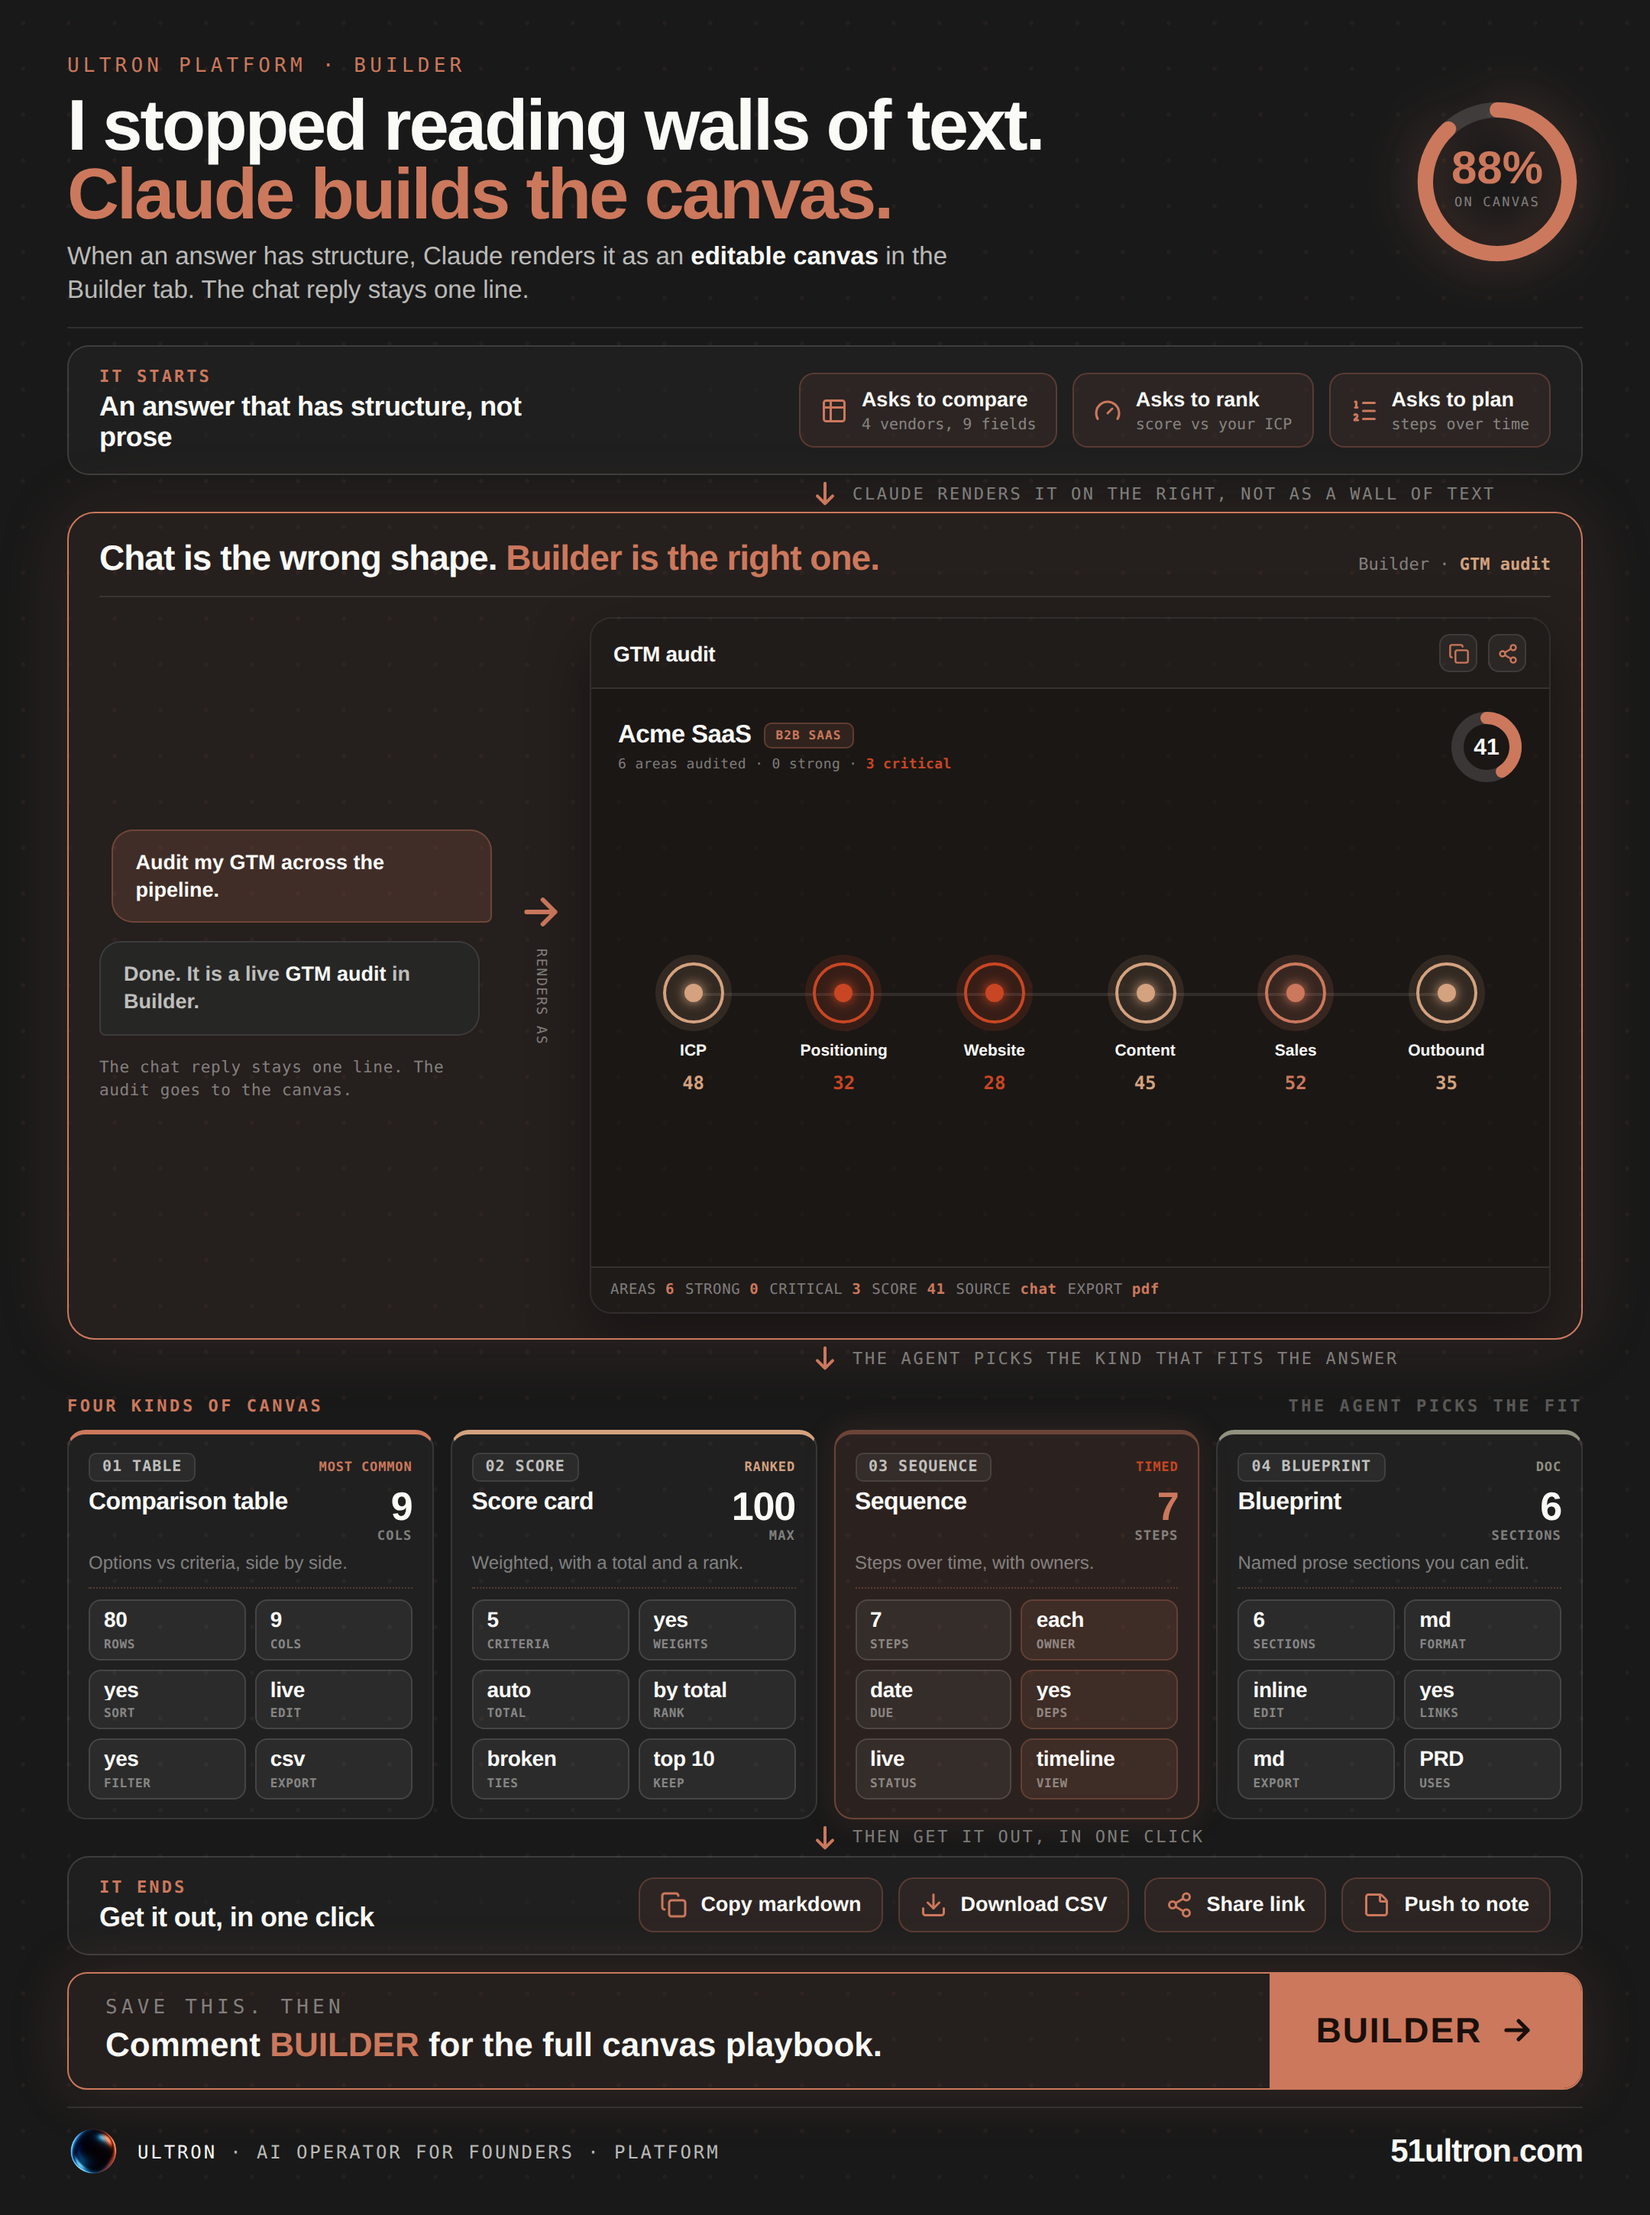
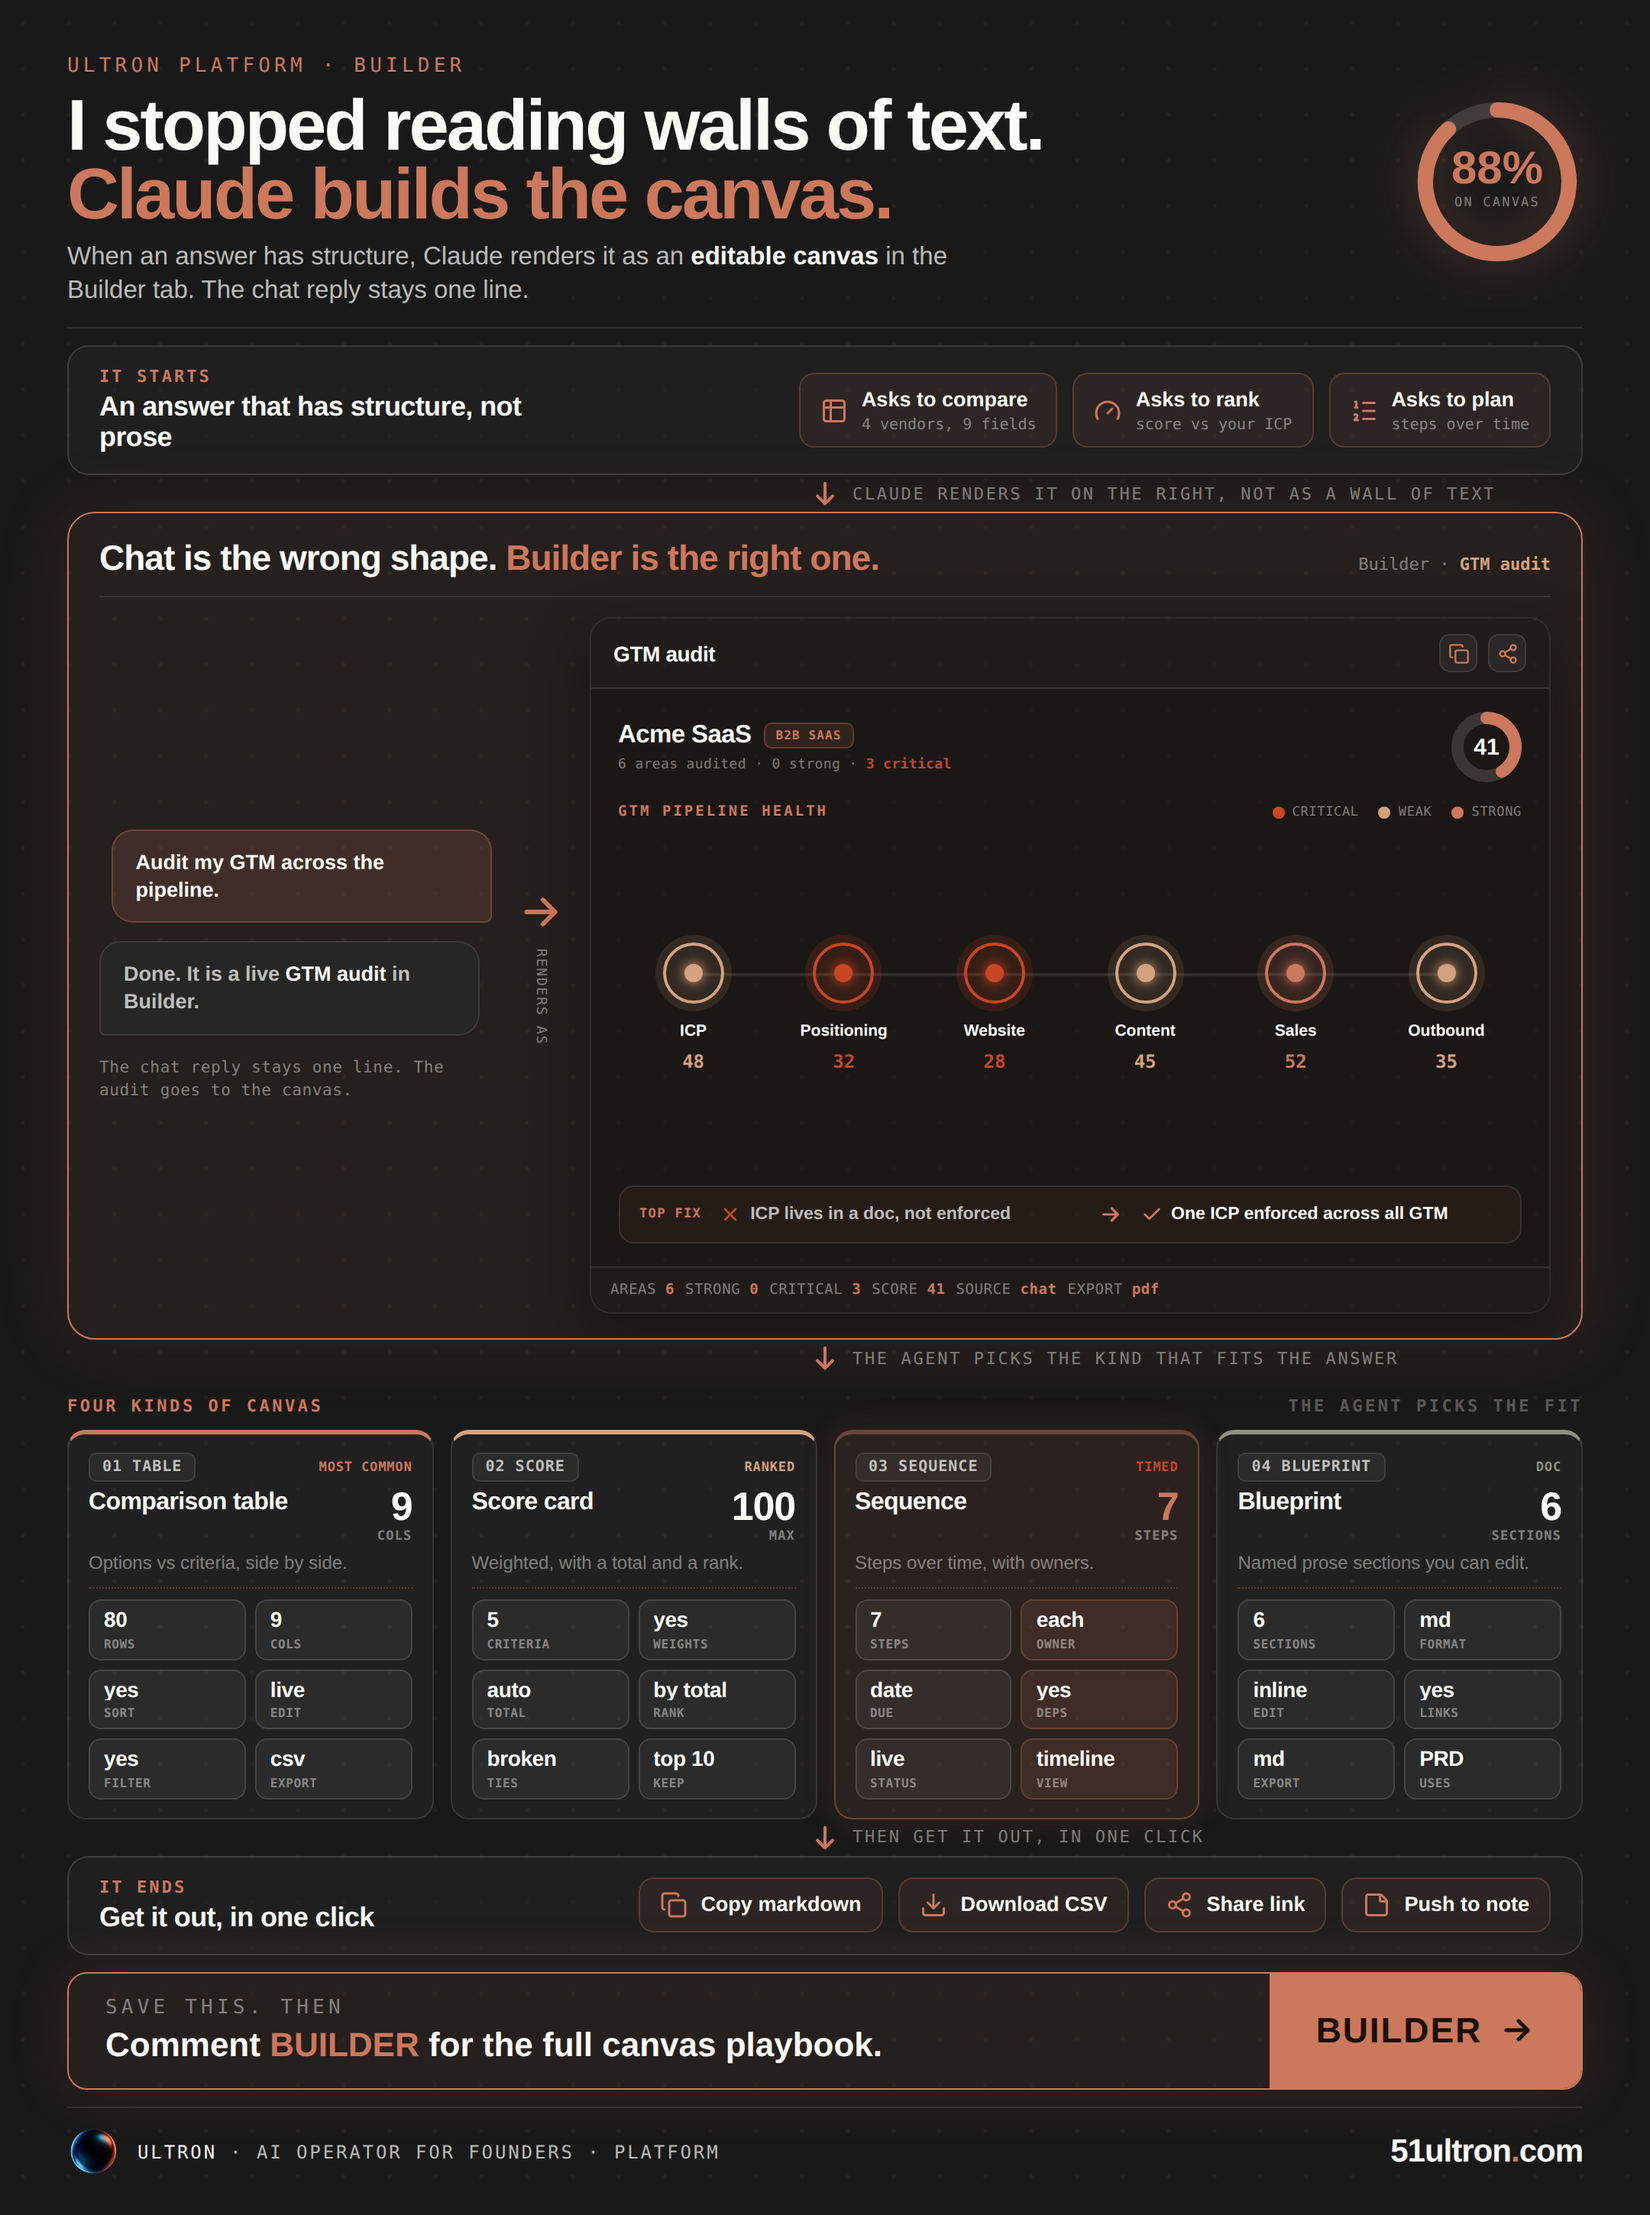
content: flesh out Builder GTM-audit canvas above and below the pipeline
Above the pipeline: a 'GTM pipeline health' eyebrow plus a color legend
(critical / weak / strong) that explains the node colour-coding. Below it:
a 'TOP FIX' row in current -> recommended form (X 'ICP lives in a doc, not
enforced' -> check 'One ICP enforced across all GTM'), modeled on the real
audit findings card. Fills the canvas vertical space, keeps Dark Ultron palette.
Both variants, 1080x1450 (scrollHeight verified), scrubbed.

https://claude.ai/code/session_018fS7xMwDiJUxoNS3zo3BKw

diff --git a/content/docs-07-builder-linkedin-journey.html b/content/docs-07-builder-linkedin-journey.html
@@ -68,6 +68,21 @@ body{background:#0d0d0d;display:flex;justify-content:center;padding:24px 0;font-
 .pnode .pdot{width:12px;height:12px;border-radius:50%;background:var(--sc);box-shadow:0 0 8px var(--sc);}
 .plabel{font-size:10.5px;font-weight:700;color:var(--ivory);text-align:center;line-height:1.08;}
 .pscore{font-family:'DM Mono',monospace;font-size:12px;font-weight:600;color:var(--sc);line-height:1;}
+.gabove{flex-shrink:0;display:flex;align-items:center;justify-content:space-between;gap:10px;}
+.gabove .glbl{font-family:'DM Mono',monospace;font-size:9.5px;font-weight:600;letter-spacing:.16em;text-transform:uppercase;color:var(--book);}
+.glegend{display:flex;gap:13px;}
+.glegend span{display:flex;align-items:center;gap:5px;font-family:'DM Mono',monospace;font-size:8.5px;font-weight:500;letter-spacing:.04em;text-transform:uppercase;color:var(--ink46);}
+.glegend i{width:8px;height:8px;border-radius:50%;}
+.gbelow{flex-shrink:0;display:flex;align-items:center;gap:12px;background:rgba(204,120,92,.06);border:1px solid var(--rule);border-radius:10px;padding:10px 13px;}
+.gbtag{font-family:'DM Mono',monospace;font-size:8.5px;font-weight:600;letter-spacing:.08em;text-transform:uppercase;color:var(--book);flex-shrink:0;}
+.gbv{flex:1;display:flex;align-items:center;gap:6px;font-size:11.5px;font-weight:700;line-height:1.16;min-width:0;}
+.gbv.cur{color:var(--ink70);}
+.gbv.rec{color:var(--ivory);}
+.gbv svg{width:14px;height:14px;flex-shrink:0;stroke-width:2.4;fill:none;stroke-linecap:round;stroke-linejoin:round;}
+.gbv.cur svg{stroke:var(--book-d);}
+.gbv.rec svg{stroke:var(--book);}
+.gbarrow{display:flex;align-items:center;flex-shrink:0;}
+.gbarrow svg{width:16px;height:16px;stroke:var(--book);stroke-width:2.4;fill:none;stroke-linecap:round;stroke-linejoin:round;}
 .cvstats{flex-shrink:0;display:flex;gap:7px;padding:9px 13px;border-top:1px solid var(--rule);background:rgba(255,255,255,.02);flex-wrap:wrap;}
 .cvstat{font-family:'DM Mono',monospace;font-size:9.5px;letter-spacing:.03em;color:var(--ink46);}.cvstat b{color:var(--book);font-weight:600;}
 /* KINDS strip */
@@ -133,6 +148,7 @@ body{background:#0d0d0d;display:flex;justify-content:center;padding:24px 0;font-
 <div class="cv-bar"><span class="cv-nm">GTM audit</span><div class="cv-act"><i><svg xmlns="http://www.w3.org/2000/svg" width="1em" height="1em" viewBox="0 0 24 24"><g fill="none" stroke="#CC785C" stroke-linecap="round" stroke-linejoin="round" stroke-width="2"><rect width="14" height="14" x="8" y="8" rx="2" ry="2"/><path d="M4 16c-1.1 0-2-.9-2-2V4c0-1.1.9-2 2-2h10c1.1 0 2 .9 2 2"/></g></svg></i><i><svg xmlns="http://www.w3.org/2000/svg" width="1em" height="1em" viewBox="0 0 24 24"><g fill="none" stroke="#CC785C" stroke-linecap="round" stroke-linejoin="round" stroke-width="2"><circle cx="18" cy="5" r="3"/><circle cx="6" cy="12" r="3"/><circle cx="18" cy="19" r="3"/><path d="m8.59 13.51l6.83 3.98m-.01-10.98l-6.82 3.98"/></g></svg></i></div></div>
 <div class="gaud">
 <div class="gaud-h"><div><div class="gaud-co">Acme SaaS <span class="gaud-tag">B2B SAAS</span></div><div class="gaud-sub">6 areas audited &middot; 0 strong &middot; <b>3 critical</b></div></div><div class="gaud-ring"><svg viewBox="0 0 46 46"><circle class="gt" cx="23" cy="23" r="19"/><circle class="ga" cx="23" cy="23" r="19" stroke-dasharray="49 119.4"/></svg><span class="gn">41</span></div></div>
+<div class="gabove"><span class="glbl">GTM pipeline health</span><div class="glegend"><span><i style="background:var(--book-d)"></i>Critical</span><span><i style="background:var(--kraft)"></i>Weak</span><span><i style="background:var(--book)"></i>Strong</span></div></div>
 <div class="pipe">
 <div class="pstage" style="--sc:var(--kraft);--scbg:rgba(212,162,127,.13)"><div class="ptop"><div class="pnode"><div class="pdot"></div></div></div><div class="plabel">ICP</div><div class="pscore">48</div></div>
 <div class="pstage" style="--sc:var(--book-d);--scbg:rgba(200,70,35,.16)"><div class="ptop"><div class="pnode"><div class="pdot"></div></div></div><div class="plabel">Positioning</div><div class="pscore">32</div></div>
@@ -141,6 +157,7 @@ body{background:#0d0d0d;display:flex;justify-content:center;padding:24px 0;font-
 <div class="pstage" style="--sc:var(--book);--scbg:rgba(204,120,92,.16)"><div class="ptop"><div class="pnode"><div class="pdot"></div></div></div><div class="plabel">Sales</div><div class="pscore">52</div></div>
 <div class="pstage" style="--sc:var(--kraft);--scbg:rgba(212,162,127,.13)"><div class="ptop"><div class="pnode"><div class="pdot"></div></div></div><div class="plabel">Outbound</div><div class="pscore">35</div></div>
 </div>
+<div class="gbelow"><span class="gbtag">TOP FIX</span><span class="gbv cur"><svg viewBox="0 0 24 24"><path d="M18 6 6 18M6 6l12 12"/></svg>ICP lives in a doc, not enforced</span><span class="gbarrow"><svg viewBox="0 0 24 24"><path d="M5 12h14M13 6l6 6-6 6"/></svg></span><span class="gbv rec"><svg viewBox="0 0 24 24"><path d="M20 6 9 17l-5-5"/></svg>One ICP enforced across all GTM</span></div>
 </div>
 <div class="cvstats"><span class="cvstat">AREAS <b>6</b></span><span class="cvstat">STRONG <b>0</b></span><span class="cvstat">CRITICAL <b>3</b></span><span class="cvstat">SCORE <b>41</b></span><span class="cvstat">SOURCE <b>chat</b></span><span class="cvstat">EXPORT <b>pdf</b></span></div>
 </div>

diff --git a/content/docs-07-builder-linkedin-tiles.html b/content/docs-07-builder-linkedin-tiles.html
@@ -68,6 +68,21 @@ body{background:#0d0d0d;display:flex;justify-content:center;padding:24px 0;font-
 .pnode .pdot{width:12px;height:12px;border-radius:50%;background:var(--sc);box-shadow:0 0 8px var(--sc);}
 .plabel{font-size:10.5px;font-weight:700;color:var(--ivory);text-align:center;line-height:1.08;}
 .pscore{font-family:'DM Mono',monospace;font-size:12px;font-weight:600;color:var(--sc);line-height:1;}
+.gabove{flex-shrink:0;display:flex;align-items:center;justify-content:space-between;gap:10px;}
+.gabove .glbl{font-family:'DM Mono',monospace;font-size:9.5px;font-weight:600;letter-spacing:.16em;text-transform:uppercase;color:var(--book);}
+.glegend{display:flex;gap:13px;}
+.glegend span{display:flex;align-items:center;gap:5px;font-family:'DM Mono',monospace;font-size:8.5px;font-weight:500;letter-spacing:.04em;text-transform:uppercase;color:var(--ink46);}
+.glegend i{width:8px;height:8px;border-radius:50%;}
+.gbelow{flex-shrink:0;display:flex;align-items:center;gap:12px;background:rgba(204,120,92,.06);border:1px solid var(--rule);border-radius:10px;padding:10px 13px;}
+.gbtag{font-family:'DM Mono',monospace;font-size:8.5px;font-weight:600;letter-spacing:.08em;text-transform:uppercase;color:var(--book);flex-shrink:0;}
+.gbv{flex:1;display:flex;align-items:center;gap:6px;font-size:11.5px;font-weight:700;line-height:1.16;min-width:0;}
+.gbv.cur{color:var(--ink70);}
+.gbv.rec{color:var(--ivory);}
+.gbv svg{width:14px;height:14px;flex-shrink:0;stroke-width:2.4;fill:none;stroke-linecap:round;stroke-linejoin:round;}
+.gbv.cur svg{stroke:var(--book-d);}
+.gbv.rec svg{stroke:var(--book);}
+.gbarrow{display:flex;align-items:center;flex-shrink:0;}
+.gbarrow svg{width:16px;height:16px;stroke:var(--book);stroke-width:2.4;fill:none;stroke-linecap:round;stroke-linejoin:round;}
 .cvstats{flex-shrink:0;display:flex;gap:7px;padding:9px 13px;border-top:1px solid var(--rule);background:rgba(255,255,255,.02);flex-wrap:wrap;}
 .cvstat{font-family:'DM Mono',monospace;font-size:9.5px;letter-spacing:.03em;color:var(--ink46);}.cvstat b{color:var(--book);font-weight:600;}
 /* KINDS strip */
@@ -132,6 +147,7 @@ body{background:#0d0d0d;display:flex;justify-content:center;padding:24px 0;font-
 <div class="cv-bar"><span class="cv-nm">GTM audit</span><div class="cv-act"><i><svg xmlns="http://www.w3.org/2000/svg" width="1em" height="1em" viewBox="0 0 24 24"><g fill="none" stroke="#CC785C" stroke-linecap="round" stroke-linejoin="round" stroke-width="2"><rect width="14" height="14" x="8" y="8" rx="2" ry="2"/><path d="M4 16c-1.1 0-2-.9-2-2V4c0-1.1.9-2 2-2h10c1.1 0 2 .9 2 2"/></g></svg></i><i><svg xmlns="http://www.w3.org/2000/svg" width="1em" height="1em" viewBox="0 0 24 24"><g fill="none" stroke="#CC785C" stroke-linecap="round" stroke-linejoin="round" stroke-width="2"><circle cx="18" cy="5" r="3"/><circle cx="6" cy="12" r="3"/><circle cx="18" cy="19" r="3"/><path d="m8.59 13.51l6.83 3.98m-.01-10.98l-6.82 3.98"/></g></svg></i></div></div>
 <div class="gaud">
 <div class="gaud-h"><div><div class="gaud-co">Acme SaaS <span class="gaud-tag">B2B SAAS</span></div><div class="gaud-sub">6 areas audited &middot; 0 strong &middot; <b>3 critical</b></div></div><div class="gaud-ring"><svg viewBox="0 0 46 46"><circle class="gt" cx="23" cy="23" r="19"/><circle class="ga" cx="23" cy="23" r="19" stroke-dasharray="49 119.4"/></svg><span class="gn">41</span></div></div>
+<div class="gabove"><span class="glbl">GTM pipeline health</span><div class="glegend"><span><i style="background:var(--book-d)"></i>Critical</span><span><i style="background:var(--kraft)"></i>Weak</span><span><i style="background:var(--book)"></i>Strong</span></div></div>
 <div class="pipe">
 <div class="pstage" style="--sc:var(--kraft);--scbg:rgba(212,162,127,.13)"><div class="ptop"><div class="pnode"><div class="pdot"></div></div></div><div class="plabel">ICP</div><div class="pscore">48</div></div>
 <div class="pstage" style="--sc:var(--book-d);--scbg:rgba(200,70,35,.16)"><div class="ptop"><div class="pnode"><div class="pdot"></div></div></div><div class="plabel">Positioning</div><div class="pscore">32</div></div>
@@ -140,6 +156,7 @@ body{background:#0d0d0d;display:flex;justify-content:center;padding:24px 0;font-
 <div class="pstage" style="--sc:var(--book);--scbg:rgba(204,120,92,.16)"><div class="ptop"><div class="pnode"><div class="pdot"></div></div></div><div class="plabel">Sales</div><div class="pscore">52</div></div>
 <div class="pstage" style="--sc:var(--kraft);--scbg:rgba(212,162,127,.13)"><div class="ptop"><div class="pnode"><div class="pdot"></div></div></div><div class="plabel">Outbound</div><div class="pscore">35</div></div>
 </div>
+<div class="gbelow"><span class="gbtag">TOP FIX</span><span class="gbv cur"><svg viewBox="0 0 24 24"><path d="M18 6 6 18M6 6l12 12"/></svg>ICP lives in a doc, not enforced</span><span class="gbarrow"><svg viewBox="0 0 24 24"><path d="M5 12h14M13 6l6 6-6 6"/></svg></span><span class="gbv rec"><svg viewBox="0 0 24 24"><path d="M20 6 9 17l-5-5"/></svg>One ICP enforced across all GTM</span></div>
 </div>
 <div class="cvstats"><span class="cvstat">AREAS <b>6</b></span><span class="cvstat">STRONG <b>0</b></span><span class="cvstat">CRITICAL <b>3</b></span><span class="cvstat">SCORE <b>41</b></span><span class="cvstat">SOURCE <b>chat</b></span><span class="cvstat">EXPORT <b>pdf</b></span></div>
 </div>
